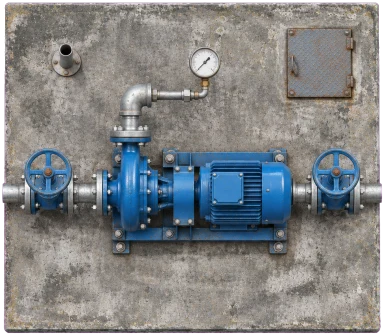
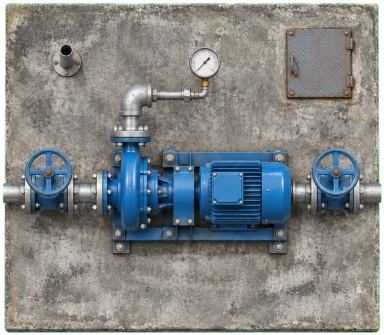
assets(round 2): tree sprites per crop/season, farm life sprites, detail/login/empty art; better chroma key

diff --git a/tools/map-geometry/optimize_assets.py b/tools/map-geometry/optimize_assets.py
@@ -1,8 +1,12 @@
-"""Raw Codex images (design/assets-raw) → web-ready WebP (apps/web/public/map).
+"""Raw Codex images (design/assets-raw) → web-ready WebP.
 
-- textures: resized to 512 px wide (tiles in SVG patterns)
-- spr_*: magenta (#FF00FF) chroma-keyed to alpha, trimmed, 384 px max
-- logo: keeps its alpha, 256 px
+apps/web/public/map/
+- tex_*:  resized to 512 px wide (tiles in SVG patterns)
+- spr_*:  magenta (#FF00FF) chroma-keyed to alpha, trimmed, 384 px max
+- tree_*: chroma-keyed, trimmed, 256 px max (one sprite per tree on the map)
+- logo:   keeps its alpha, 256 px
+apps/web/public/art/
+- detail_*, empty_*: 900 px wide photos;  login_*: 1600 px wide
 """
 
 import glob
@@ -17,18 +21,28 @@ os.makedirs(dst, exist_ok=True)
 
 
 def key_magenta(img):
-    bgr = img[:, :, :3].astype(np.int16)
+    """Chroma-key a #FF00FF background with colour un-mixing (no purple halo).
+
+    Each edge pixel is modelled as  observed = a*fg + (1-a)*magenta.  Alpha comes from
+    how magenta-ish the pixel is; the true foreground colour is then solved for, so
+    fine foliage keeps its real green instead of a pink fringe.
+    """
+    bgr = img[:, :, :3].astype(np.float32)
     b, g, r = bgr[:, :, 0], bgr[:, :, 1], bgr[:, :, 2]
-    # distance from pure magenta; soft edge for anti-aliased borders
-    mag = np.clip((np.minimum(r, b) - g - 60) / 80.0, 0, 1)  # 1 = magenta
-    alpha = ((1 - mag) * 255).astype(np.uint8)
-    # despill: pull magenta tint out of edge pixels
-    spill = (np.minimum(r, b) - g).clip(0) * mag
-    out = img[:, :, :3].astype(np.float32)
-    out[:, :, 0] -= spill * 0.8
-    out[:, :, 2] -= spill * 0.8
-    out = out.clip(0, 255).astype(np.uint8)
-    return np.dstack([out, alpha])
+    magentaness = np.clip((np.minimum(r, b) - g) / 255.0, 0, 1)  # 1 for pure #FF00FF
+    alpha = np.clip(1.0 - (magentaness - 0.08) / 0.55, 0, 1)
+    alpha = cv2.GaussianBlur(alpha, (3, 3), 0)
+    key = np.array([255.0, 0.0, 255.0], np.float32)  # BGR magenta
+    a = np.maximum(alpha, 1e-3)[..., None]
+    fg = (bgr - (1 - a) * key) / a
+    fg = np.clip(fg, 0, 255)
+    # remaining edge tint: never let an edge pixel be more magenta than its interior allows
+    edge = (alpha < 0.95)[..., None]
+    gch = fg[:, :, 1:2]
+    fg[:, :, 0:1] = np.where(edge, np.minimum(fg[:, :, 0:1], gch + 25), fg[:, :, 0:1])
+    fg[:, :, 2:3] = np.where(edge, np.minimum(fg[:, :, 2:3], gch + 40), fg[:, :, 2:3])
+    alpha[alpha < 0.04] = 0
+    return np.dstack([fg.astype(np.uint8), (alpha * 255).astype(np.uint8)])
 
 
 def trim(rgba, pad=6):
@@ -44,10 +58,25 @@ def fit(img, max_side):
     return cv2.resize(img, (round(w * s), round(h * s)), interpolation=cv2.INTER_AREA) if s < 1 else img
 
 
+art = os.path.join(os.path.dirname(dst.rstrip("/\\")), "art")
+os.makedirs(art, exist_ok=True)
+
 for path in sorted(glob.glob(os.path.join(src, "*.png"))):
     name = os.path.splitext(os.path.basename(path))[0]
     img = cv2.imread(path, cv2.IMREAD_UNCHANGED)
-    if name.startswith("spr_"):
+    out_dir = dst
+    if name.startswith(("detail_", "empty_", "login_")):
+        width = 1600 if name.startswith("login_") else 900
+        h, w = img.shape[:2]
+        img = cv2.resize(img[:, :, :3], (width, round(width * h / w)), interpolation=cv2.INTER_AREA)
+        out = os.path.join(art, f"{name}.webp")
+        cv2.imwrite(out, img, [cv2.IMWRITE_WEBP_QUALITY, 80])
+        print(f"{name:24s} {img.shape[1]}x{img.shape[0]}  {os.path.getsize(out) // 1024} KB  (art)")
+        continue
+    if name.startswith("tree_"):
+        img = fit(trim(key_magenta(img[:, :, :3])), 256)
+        q = 86
+    elif name.startswith("spr_"):
         if img.shape[2] == 3 or img[:, :, 3].min() == 255:
             img = key_magenta(img if img.shape[2] == 3 else img[:, :, :3])
         img = fit(trim(img), 384)
@@ -61,4 +90,4 @@ for path in sorted(glob.glob(os.path.join(src, "*.png"))):
         q = 80
     out = os.path.join(dst, f"{name}.webp")
     cv2.imwrite(out, img, [cv2.IMWRITE_WEBP_QUALITY, q])
-    print(f"{name:18s} {img.shape[1]}x{img.shape[0]}  {os.path.getsize(out) // 1024} KB")
+    print(f"{name:24s} {img.shape[1]}x{img.shape[0]}  {os.path.getsize(out) // 1024} KB")

diff --git a/design/DESIGN_BRIEF.md b/design/DESIGN_BRIEF.md
@@ -38,3 +38,57 @@
 - Mixed-fruit zone third crop is **plum (عوينة)**, not guava (كوبة). Fix the seed and contracts.
 - Weather coordinates in config point at Tripoli city (32.887, 13.180), not the farm (≈32.51°N). Fix them before the weather work in Milestone E.
 - Generated PNGs are 2–4 MB. Convert to WebP and size them for the map.
+
+---
+
+# Round 2 — UI, graphics & animation improvements (decided 2026-11-18)
+
+Focus: **map realism, map animations, dashboard layout, pages & panels styling** (all four).
+
+## Map
+- **Individual tree sprites** replace the tiled crop textures. Each tree sits at real row spacing along its field's row direction, with slight size and rotation variation and its own shadow. Wet spots form under each tree, and dry trees yellow individually. Rendering must stay smooth with about 4,000 trees, so use a canvas or batched layer if SVG is too slow.
+- Equipment sprites stay as they are. The owner did not ask for bigger or more detailed equipment.
+- Animations:
+  1. **Drip droplets and spreading wet rings** under trees while a zone runs.
+  2. **Camera fly-to**: smooth zoom/pan to a selected zone, highlight it and dim the rest. Also auto-focus the zone of a new S2/S3 alarm, with a "back to farm" button.
+  3. **Life on the farm**:
+     - a **tractor** working along a field edge
+     - **birds** flying across now and then
+     - a **worker on foot** who idles near the control room and, when a zone/valve alarm is active, walks along the tracks to that zone and stays until it is acked or cleared
+- Not wanted: wind sway or cloud shadows.
+
+## Dashboard
+- **Map + side column.** The map takes about 2/3, with compact KPIs on top. The right column shows the tank gauge, pumps, active alarms and trends:
+  - tank level (24 h)
+  - flow & pressure (1 h)
+  - water used today by zone (m³, from telemetry until the cycle log in Milestone D)
+
+## Style
+- **Dark HMI with more depth.** Keep the cyan accent. Add glass panels, subtle gradients, softer corners, and better spacing and type scale across all pages and panels.
+- **Custom icon set: duotone line icons** with a cyan accent, for crops, pump, valve, tank, sensors and alarms.
+
+## New assets (style A photoreal unless noted)
+- Tree sprites per crop: pomegranate, olive, grape (trellis row segment), peach / apricot / plum.
+- Zone and equipment detail art for the zone drawer and equipment page (a crop photo per zone type, a pump cutaway).
+- Login hero aerial artwork and empty-state illustrations (no alarms, no events).
+- **Show samples first**: one tree per crop, 3 icons and one detail image. Generate the rest after approval.
+
+## Round 2 — details (decided 2026-11-18)
+- **Zone labels on the map**: a glass chip with the zone name, plus a live badge. The badge shows moisture % when idle, flow m³/h and a timer when irrigating, and an alarm icon when faulted. Hover/tap opens a tooltip with all values.
+- **Alarms on the map**: a **pulsing severity-coloured ring** around the affected zone, and the **faulted equipment glows**.
+- **Lighting**: follows farm time (Africa/Tripoli), with a manual override (unchanged).
+- **Sound**: a short chime on new **S2/S3** alarms, with a **mute** toggle in the header that is remembered per viewer.
+- **Zone panel order**: big live status (state, moisture, flow, timer), then controls, then history charts, then crop & hardware info.
+- **Starting a zone**: a duration picker. It defaults to the zone's usual duration, with preset chips for 15 / 30 / 45 / 60 min and a slider up to the zone's max runtime. Confirm before starting.
+- **Phone home**: a big status card first (all OK / alarms / zones running) with quick actions, then the map.
+- **Motion**: rich by default, with a **reduce-motion** toggle. The OS reduce-motion setting is also respected.
+- **Fruit follows the real season**, so each crop needs *two* tree sprites (fruiting / green):
+  - pomegranate Sep–Nov
+  - olives Oct–Dec
+  - grapes Jul–Sep
+  - apricot May–Jun
+  - peach Jun–Aug
+  - plum Jun–Aug
+- **Water colour**: cyan, matching the HMI accent.
+- **Login art**: a golden-hour photoreal aerial of pomegranate and olive rows, darkened behind the login card.
+- **Empty states**: a calm photoreal vignette with a short reassuring line (e.g. "All clear — no active alarms").
